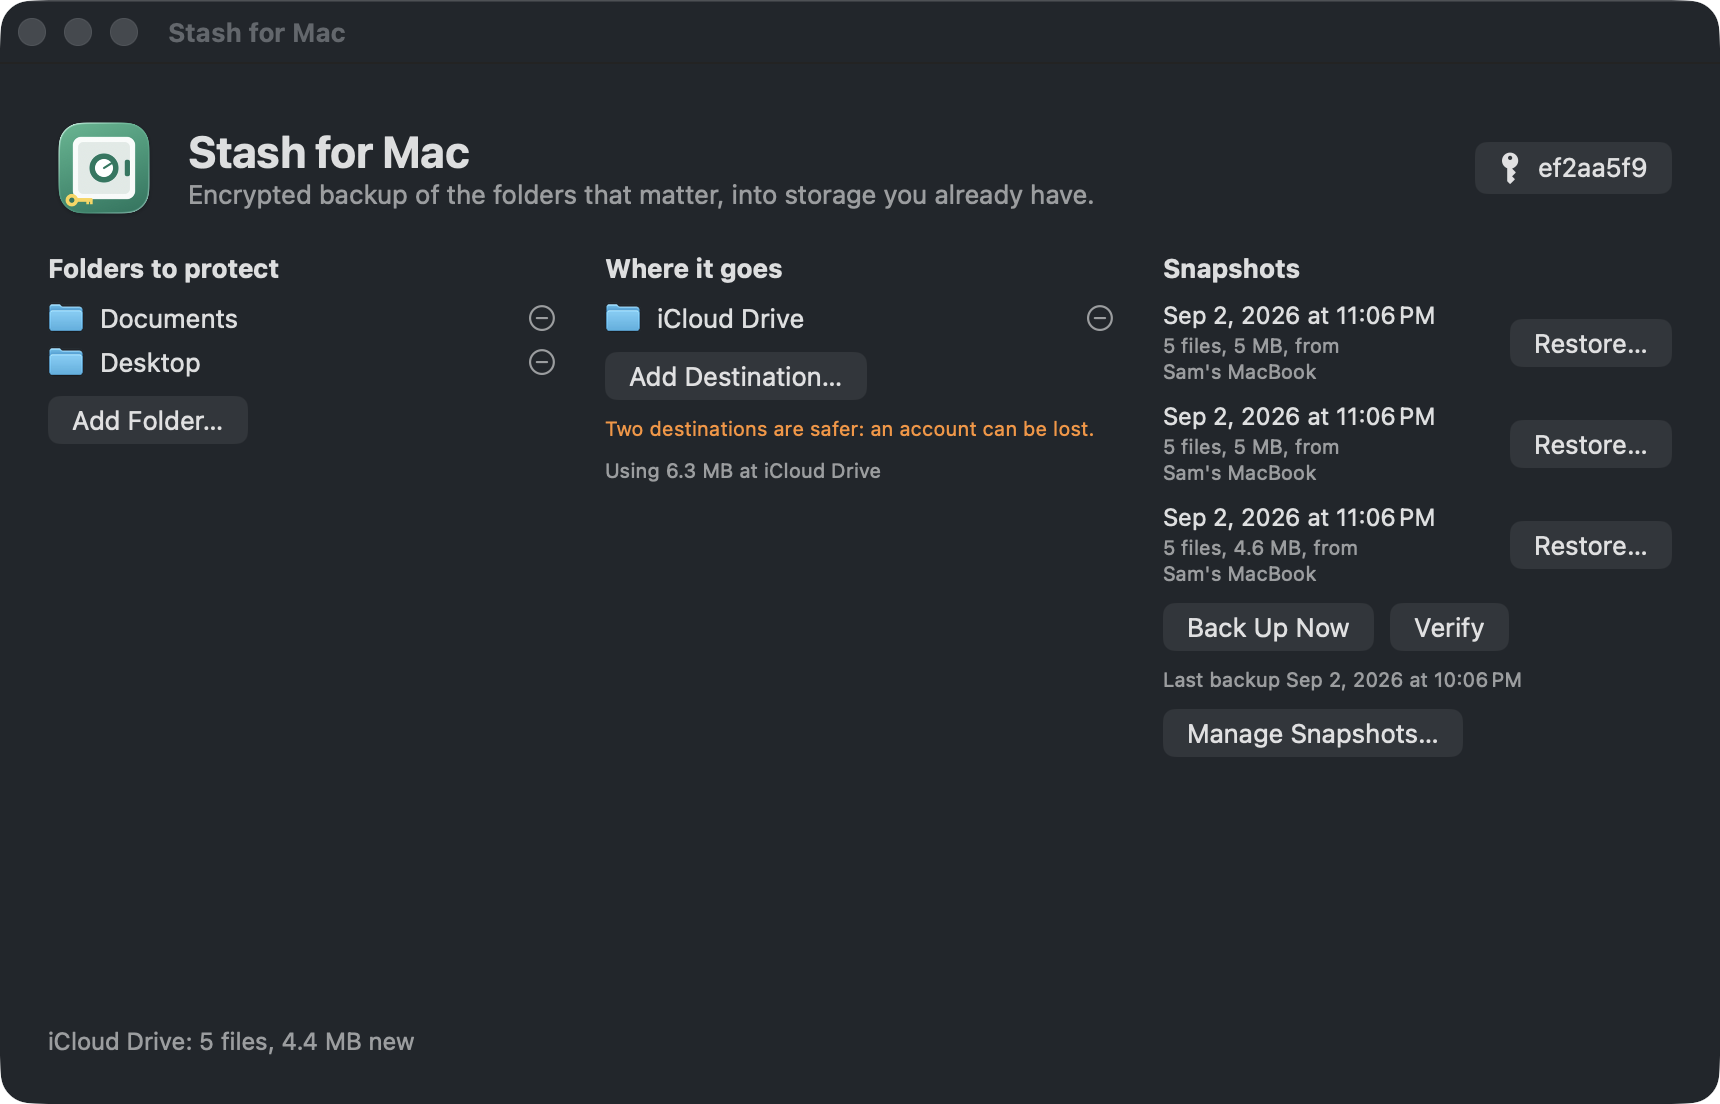
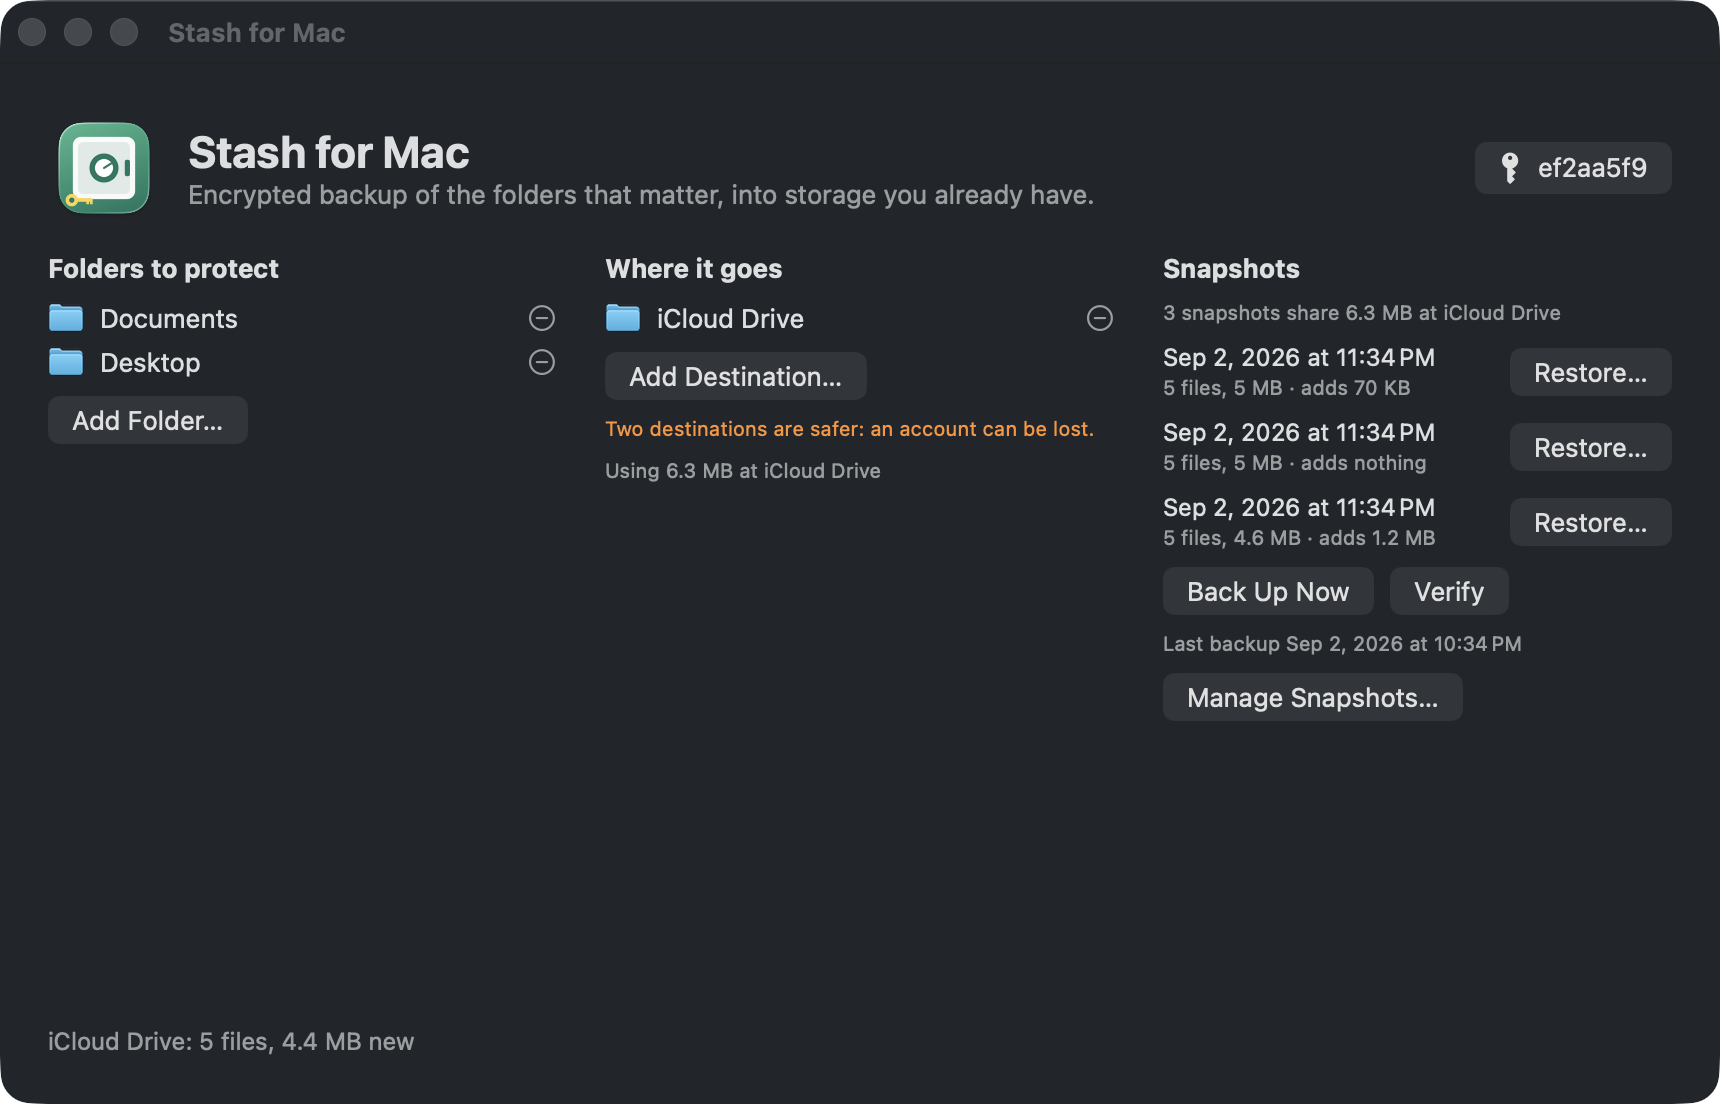
Stash for Mac 1.0.0

Changed region(s): [[0.6779, 0.2772, 0.9552, 0.6775], [0.8936, 0.462, 0.9552, 0.5236], [0.8936, 0.4004, 0.9552, 0.4312]]

diff --git a/CHANGELOG.md b/CHANGELOG.md
@@ -1,0 +1,22 @@
+# Changelog
+
+## 1.0.0 — 2026-09-03
+
+First release.
+
+- A random 256-bit key with a printable recovery card: 24 words with a checksum, a QR code, a
+  fingerprint. No password. The card must be typed back before it closes.
+- Encrypted chunks (ChaChaPoly, keyed names) and encrypted manifests; the provider only ever
+  holds ciphertext. Identical content is stored once; a second backup uploads only what changed.
+- Any folder as a destination: iCloud Drive, Google Drive, OneDrive, Dropbox, a disk, a NAS.
+  Cloud placeholders are listed, never downloaded; evicted chunks are never fetched by verify.
+- Restore browser for files, folders or everything; damaged pieces fail one file, never
+  partial writes. Verify opens every chunk and restores a random file; weekly by default.
+- Snapshot manager with what each snapshot frees, two retention policies (newest N, thin out
+  over time), and a grace period so two Macs on one card never lose an upload in flight.
+- Exclusions by name pattern and size; Photos libraries, caches and temp files skipped by default;
+  ~/Library skipped when the home folder is chosen. A backup may never contain itself.
+- Hourly or daily schedule while the app is open, menu bar item, notifications on failure,
+  open at login and a daily update check by default (both toggles), help in English and Spanish.
+- `stashmac` command line with `--json` everywhere; 33 test cases three ways plus an
+  end-to-end integration script.

diff --git a/README.md b/README.md
@@ -11,7 +11,7 @@ Free, MIT licensed, no account, no server, no subscription. Same family as
 <p align="center"><img src="docs/screenshots/main.png" width="760" alt="Stash for Mac: folders to protect, where it goes, snapshots"></p>
 <p align="center"><img src="docs/screenshots/card.png" width="560" alt="The recovery card: 24 words and a QR code"></p>
 
-**Status: complete for a first release, not yet published.** Key and recovery card, encrypted
+**Version 1.0.0.** Key and recovery card, encrypted
 chunks and manifests, backup into any folder, a restore browser, verify, snapshot management with
 two retention policies, exclusions, schedules, a menu bar presence, notifications, help in two
 languages and tests three ways are all built. Google Drive and OneDrive over their own APIs (for
